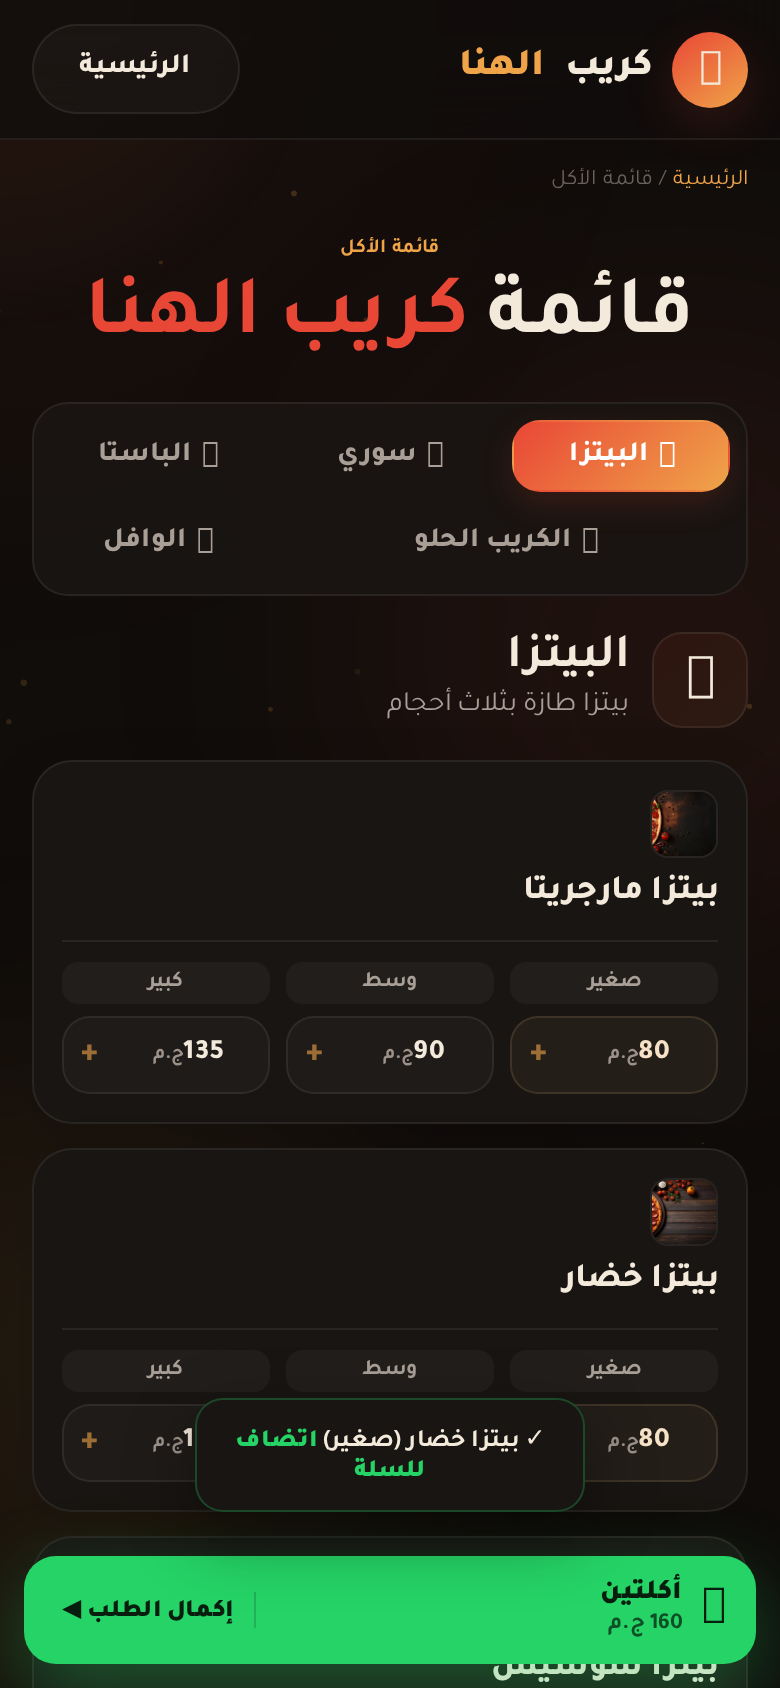
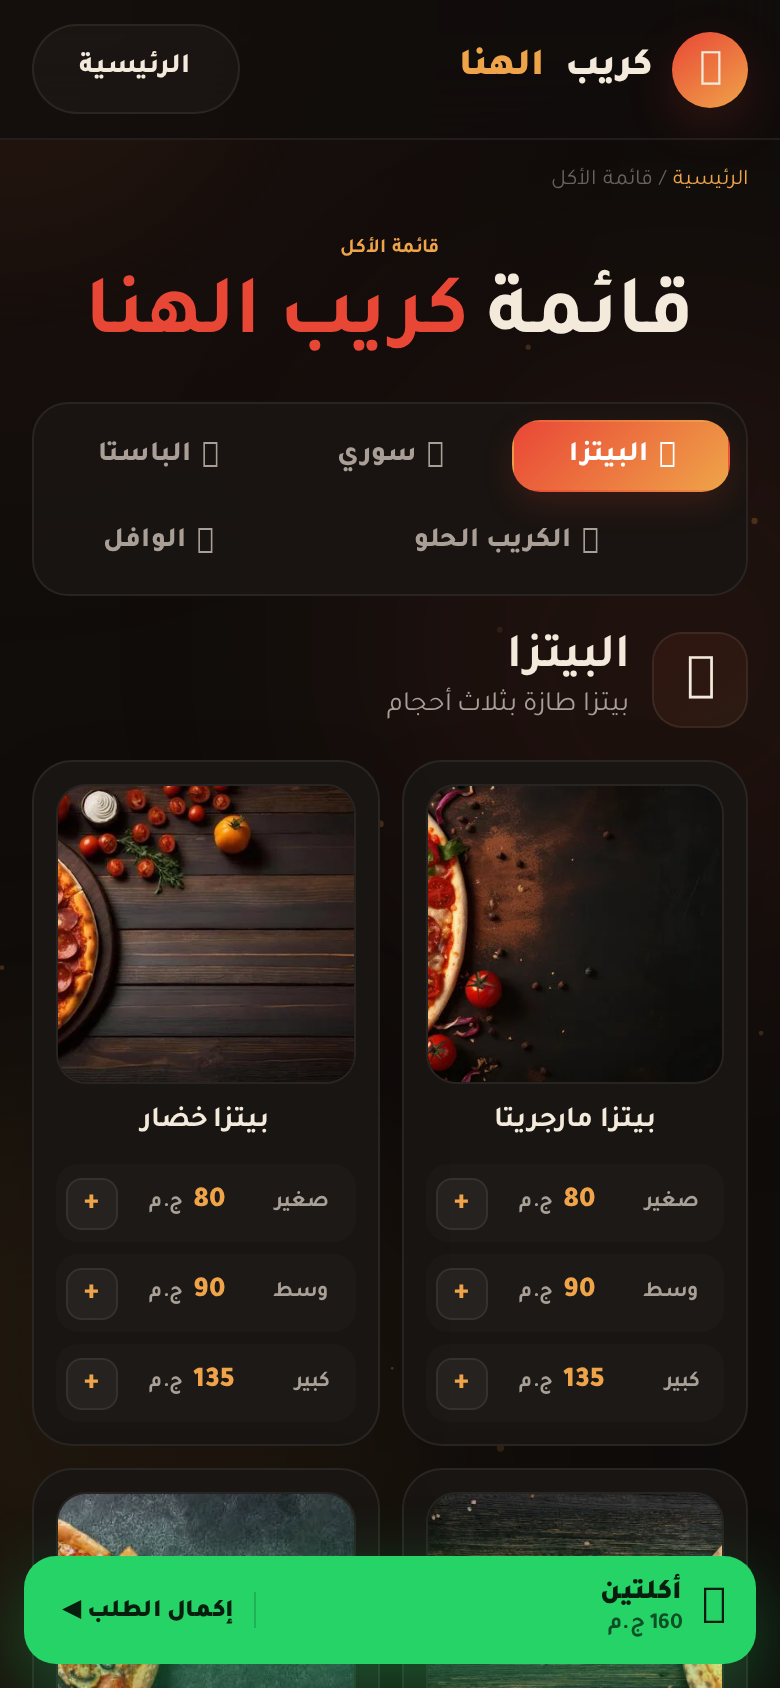
تصميم كروت البيتزا: صورة كبيرة + أسعار بجانبها (هندسي)
- كل بيتزا كارت بصورة كبيرة على اليمين والأسعار عمودياً بجانبها
- كل سعر في صف: الحجم + السعر + زر + (51 زر)
- تصميم هندسي بألوان الموقع الحالية (لا تغيير في الهوية)
- الموبايل: بطاقتان جنباً إلى جنب في كل صف
- الحفاظ على روابط صفحة المنتج والسلة وزر + لكل سعر
- الأسعار 80/90/135 بدون تغيير

diff --git a/style.css b/style.css
@@ -380,3 +380,119 @@ a.mi-thumb:hover{transform:scale(1.06)}
 .card-link h3{transition:color .18s}
 .card-link:hover h3{color:var(--orange)}
 .card-link:hover .card-img img{transform:scale(1.06)}
+/* ══════════════════════════════════════════════════════════
+   كارت المنتجات بأحجام (البيتزا): صورة كبيرة + أسعار بجانبها
+   التخطيط: الصورة يمين (RTL) · الأسعار شمال · كل سعر في صف
+   ══════════════════════════════════════════════════════════ */
+
+/* الشبكة: عمودان في الديسكتوب */
+.menu-cards-sizes{grid-template-columns:repeat(2,1fr);gap:18px;padding-bottom:20px}
+
+/* الكارت: شبكة — الصورة يمين، الأسعار شمال */
+.menu-card-sizes{
+  display:grid;
+  grid-template-columns:minmax(0,172px) minmax(0,1fr);
+  grid-template-areas:"img prices" "name prices";
+  align-items:start;
+  gap:0 18px;
+  padding:14px;
+  border-radius:24px;
+  position:relative;
+}
+.menu-card-sizes .card-link{grid-area:img;display:block;min-width:0}
+.menu-card-sizes .card-img{
+  display:block;width:100%;aspect-ratio:1/1;overflow:hidden;
+  margin:0;border-radius:18px;background:#171412;
+  border:1px solid var(--line);
+}
+.menu-card-sizes .card-img img{width:100%;height:100%;object-fit:cover;display:block;transition:transform .45s ease}
+.menu-card-sizes .card-emoji{
+  display:grid;place-items:center;width:100%;aspect-ratio:1/1;
+  border-radius:18px;background:#171412;border:1px solid var(--line);font-size:46px;
+}
+.menu-card-sizes h3{
+  grid-area:name;font-size:17px;margin:12px 0 0;line-height:1.45;min-height:0;
+  padding-bottom:0;border:0;
+}
+.menu-card-sizes .card-sizes{
+  grid-area:prices;
+  display:flex;flex-direction:column;gap:8px;align-items:stretch;
+  min-width:0;
+}
+
+/* ── صف السعر: الحجم + السعر + زر + ── */
+.price-row{
+  display:flex;align-items:center;gap:8px;
+  background:#ffffff05;border:1px solid transparent;border-radius:13px;
+  padding:4px 6px 4px 4px;
+  transition:.25s;
+}
+.price-row:hover{background:#ffffff08;border-color:#ffffff14}
+.price-row.wa-added{border-color:var(--orange);background:#efa44914}
+
+/* زر السعر نفسه */
+.menu-card-sizes .price-pill{
+  flex:1;min-width:0;
+  display:flex;align-items:center;justify-content:space-between;gap:10px;
+  background:none;border:0;padding:9px 10px;
+  font:800 16px Tajawal;color:var(--cream);cursor:pointer;
+  border-radius:9px;
+}
+.menu-card-sizes .price-pill:hover{background:#ffffff0a}
+.pr-size{font-size:12.5px;font-weight:700;color:var(--muted);white-space:nowrap}
+.pr-price{font-size:17px;font-weight:900;color:var(--orange);white-space:nowrap;display:inline-flex;align-items:baseline;gap:5px}
+.pr-price i{font-style:normal;font-size:11.5px;font-weight:700;color:var(--muted)}
+
+/* زر + : يبان ويبقى قابل للنقر (لازم specificity أعلى من .wa-add العام) */
+.price-row .menu-card-sizes .wa-add,
+.menu-card-sizes .price-row .wa-add{
+  position:static;transform:none;
+  flex-shrink:0;width:30px;height:30px;
+  display:grid;place-items:center;
+  border:1px solid var(--line);border-radius:9px;
+  background:#ffffff0a;color:var(--orange);
+  font:800 17px Tajawal;line-height:1;cursor:pointer;
+  opacity:1;visibility:visible;pointer-events:auto;
+  z-index:auto;left:auto;top:auto;
+  transition:.22s;
+}
+.menu-card-sizes .price-row .wa-add:hover{
+  background:var(--orange);color:#1a1511;border-color:var(--orange);
+  transform:none;opacity:1;
+}
+.menu-card-sizes .price-row .wa-add:active{transform:scale(.9);opacity:1}
+
+/* الكارت عند المرور */
+.menu-card-sizes:hover .card-img img{transform:scale(1.07)}
+.menu-card-sizes:hover .wa-add{opacity:1}
+
+/* ══════════ الموبايل: صورة فوق والأسعار تحت ══════════ */
+@media(max-width:640px){
+  .menu-cards-sizes{grid-template-columns:1fr 1fr;gap:11px}
+  .menu-card-sizes{
+    grid-template-columns:1fr;
+    grid-template-areas:"img" "name" "prices";
+    gap:0;padding:11px;border-radius:20px;
+  }
+  .menu-card-sizes .card-img,.menu-card-sizes .card-emoji{border-radius:15px}
+  .menu-card-sizes h3{font-size:14.5px;margin:9px 0 11px;text-align:center;line-height:1.4}
+  .menu-card-sizes .card-sizes{gap:6px}
+  .price-row{padding:3px 4px;border-radius:11px}
+  .menu-card-sizes .price-pill{padding:7px 8px;font-size:14px;gap:6px}
+  .pr-size{font-size:11px}
+  .pr-price{font-size:14.5px}
+  .pr-price i{font-size:10.5px}
+  .menu-card-sizes .price-row .wa-add{width:26px;height:26px;font-size:15px;border-radius:8px}
+}
+@media(max-width:380px){
+  .menu-cards-sizes{grid-template-columns:1fr}
+}
+
+/* ══════════ تابلت: عمود واحد متوسط ══════════ */
+@media(min-width:641px) and (max-width:900px){
+  .menu-cards-sizes{grid-template-columns:1fr}
+  .menu-card-sizes{
+    grid-template-columns:minmax(0,150px) minmax(0,1fr);
+    grid-template-areas:"img prices" "name prices";
+  }
+}

diff --git a/site.js b/site.js
@@ -177,11 +177,41 @@ window.__reapplyData=function(){
 };
 
 // ===== عرض قائمة الأكل (تبويبات) =====
+
+/* مفاتيح الأحجام: من sizeKeys لو موجودة، وإلا الاسم نفسه */
+function sizeKeysOf(cat){
+  const k=getSizeKeys()[cat]||{};
+  return k;
+}
+
 function panelHTML(m){
   const head=`<div class="menu-head"><span class="menu-head-emoji">${m.emoji}</span><div><h2>${m.title}</h2><p>${m.desc}</p></div></div>`;
   if(m.sizes){
-    const rows=m.items.map((it,i)=>`<tr class="reveal" style="transition-delay:${i*0.03}s"><td class="pz-name" data-label="الأكلة"><a class="mi-thumb" href="product.html?cat=${m.key}&id=${encodeURIComponent(it.id)}" aria-label="تفاصيل ${it.name}">${it.img?`<img src="${it.img}" alt="" loading="lazy">`:'<span class="it-thumb-empty">📷</span>'}</a><a class="mi-name" href="product.html?cat=${m.key}&id=${encodeURIComponent(it.id)}">${it.name}</a></td><td data-label="صغير"><button class="price-pill" onclick="orderItem('${m.key}','${it.name}','صغير',${it.small})">${it.small}<i>ج.م</i></button></td><td data-label="وسط"><button class="price-pill" onclick="orderItem('${m.key}','${it.name}','وسط',${it.medium})">${it.medium}<i>ج.م</i></button></td><td data-label="كبير"><button class="price-pill" onclick="orderItem('${m.key}','${it.name}','كبير',${it.large})">${it.large}<i>ج.م</i></button></td></tr>`).join('');
-    return head+`<div class="table-wrap"><table class="menu-table"><thead><tr><th>الأكلة</th><th>صغير</th><th>وسط</th><th>كبير</th></tr></thead><tbody>${rows}</tbody></table></div>`;
+    // ═══ كارت بصورة + أسعار جنب بعض (البيتزا) ═══
+    const sk=sizeKeysOf(m.key);
+    const sizeList=m.sizes.map(x=>sk[x]||x);
+    const cards=m.items.map((it,i)=>{
+      const rows=sizeList.map((k,si)=>{
+        const price=it[k];
+        if(price==null) return '';
+        const label=m.sizes[si];
+        return `<div class="price-row">
+          <button class="price-pill wa-clickable" data-size="${label}" onclick="orderItem('${m.key}','${it.name}','${label}',${price})">
+            <span class="pr-size">${label}</span>
+            <span class="pr-price">${price}<i>ج.م</i></span>
+          </button>
+          <button type="button" class="wa-add" aria-label="ضيف ${it.name} ${label} للسلة">+</button>
+        </div>`;
+      }).join('');
+      return `<article class="menu-card menu-card-sizes reveal" style="transition-delay:${i*0.03}s">
+        <a class="card-link" href="product.html?cat=${m.key}&id=${encodeURIComponent(it.id)}">
+          ${it.img?`<span class="card-img"><img src="${it.img}" alt="" loading="lazy"></span>`:`<span class="card-emoji">${m.emoji}</span>`}
+          <h3>${it.name}</h3>
+        </a>
+        <div class="card-sizes">${rows}</div>
+      </article>`;
+    }).join('');
+    return head+`<div class="menu-cards menu-cards-sizes">${cards}</div>`;
   }
   const cards=m.items.map((it,i)=>`<article class="menu-card reveal" style="transition-delay:${i*0.03}s"><a class="card-link" href="product.html?cat=${m.key}&id=${encodeURIComponent(it.id)}">${it.img?`<span class="card-img"><img src="${it.img}" alt="" loading="lazy"></span>`:`<span class="card-emoji">${m.emoji}</span>`}<h3>${it.name}</h3></a><div class="card-bottom"><span class="card-price">${it.price} <i>ج.م</i></span><button class="button primary" onclick="orderItem('${m.key}','${it.name}','',${it.price})">اطلبها ←</button></div></article>`).join('');
   return head+`<div class="menu-cards">${cards}</div>`;

diff --git a/wa.js b/wa.js
@@ -337,8 +337,32 @@
       });
     });
 
+    // ═══ كروت بأحجام (البيتزا): ربط زر + الموجود بالسلة ═══
+    document.querySelectorAll('.menu-card-sizes').forEach(card => {
+      const panel = card.closest('.menu-panel');
+      const cat = panel ? panel.id.replace('panel-', '') : '';
+      const nameEl = card.querySelector('h3');
+      const name = nameEl ? nameEl.textContent.trim() : '';
+      card.querySelectorAll('.price-row').forEach(row => {
+        const pill = row.querySelector('.price-pill');
+        const btn = row.querySelector('.wa-add');
+        if (!pill || !btn) return;
+        const size = pill.dataset.size || '';
+        const price = (pill.querySelector('.pr-price')||pill).textContent.match(/\d+/);
+        const item = { cat: cat, name: name, size: size, price: +(price ? price[0] : 0), qty: 1 };
+
+        btn.addEventListener('click', e => {
+          e.stopPropagation();
+          addToCart(item, { silent: true });
+          toastAdded(name);
+          row.classList.add('wa-added');
+          setTimeout(() => row.classList.remove('wa-added'), 700);
+        });
+      });
+    });
+
     // بطاقات السعر الواحد
-    document.querySelectorAll('.menu-card').forEach(card => {
+    document.querySelectorAll('.menu-card:not(.menu-card-sizes)').forEach(card => {
       if (card.querySelector('.wa-add')) return;
       const h3 = card.querySelector('h3');
       const priceEl = card.querySelector('.card-price');
